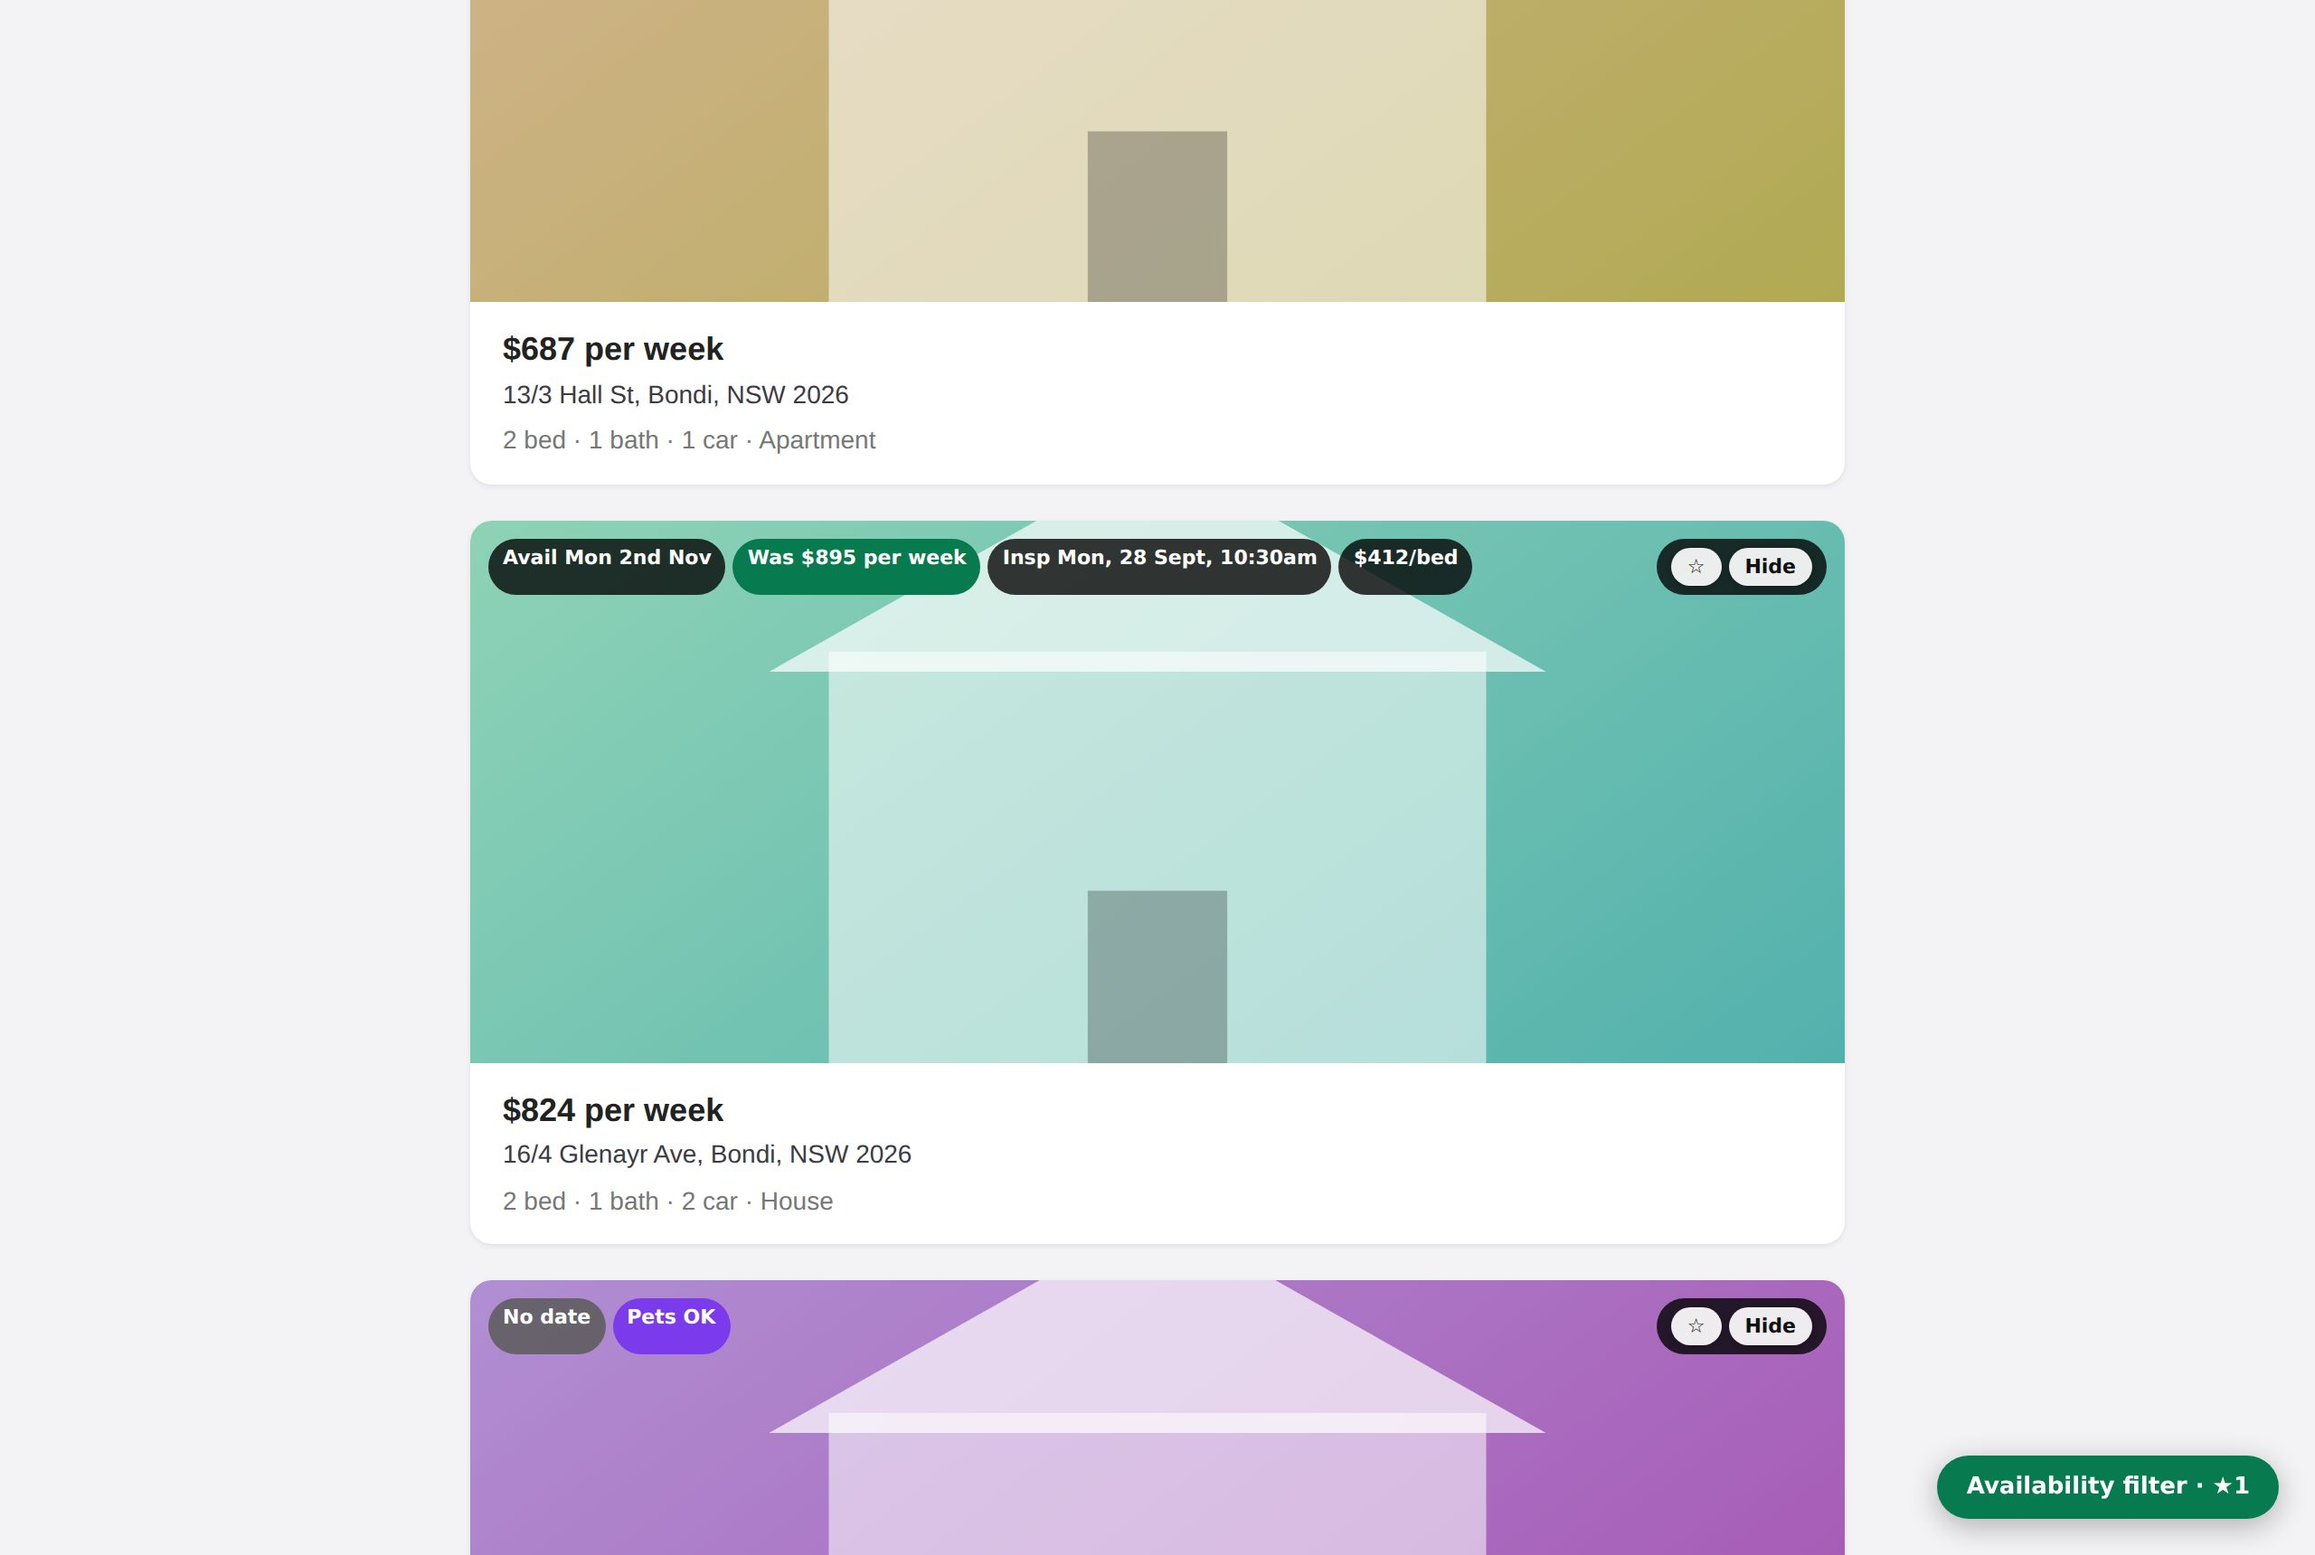
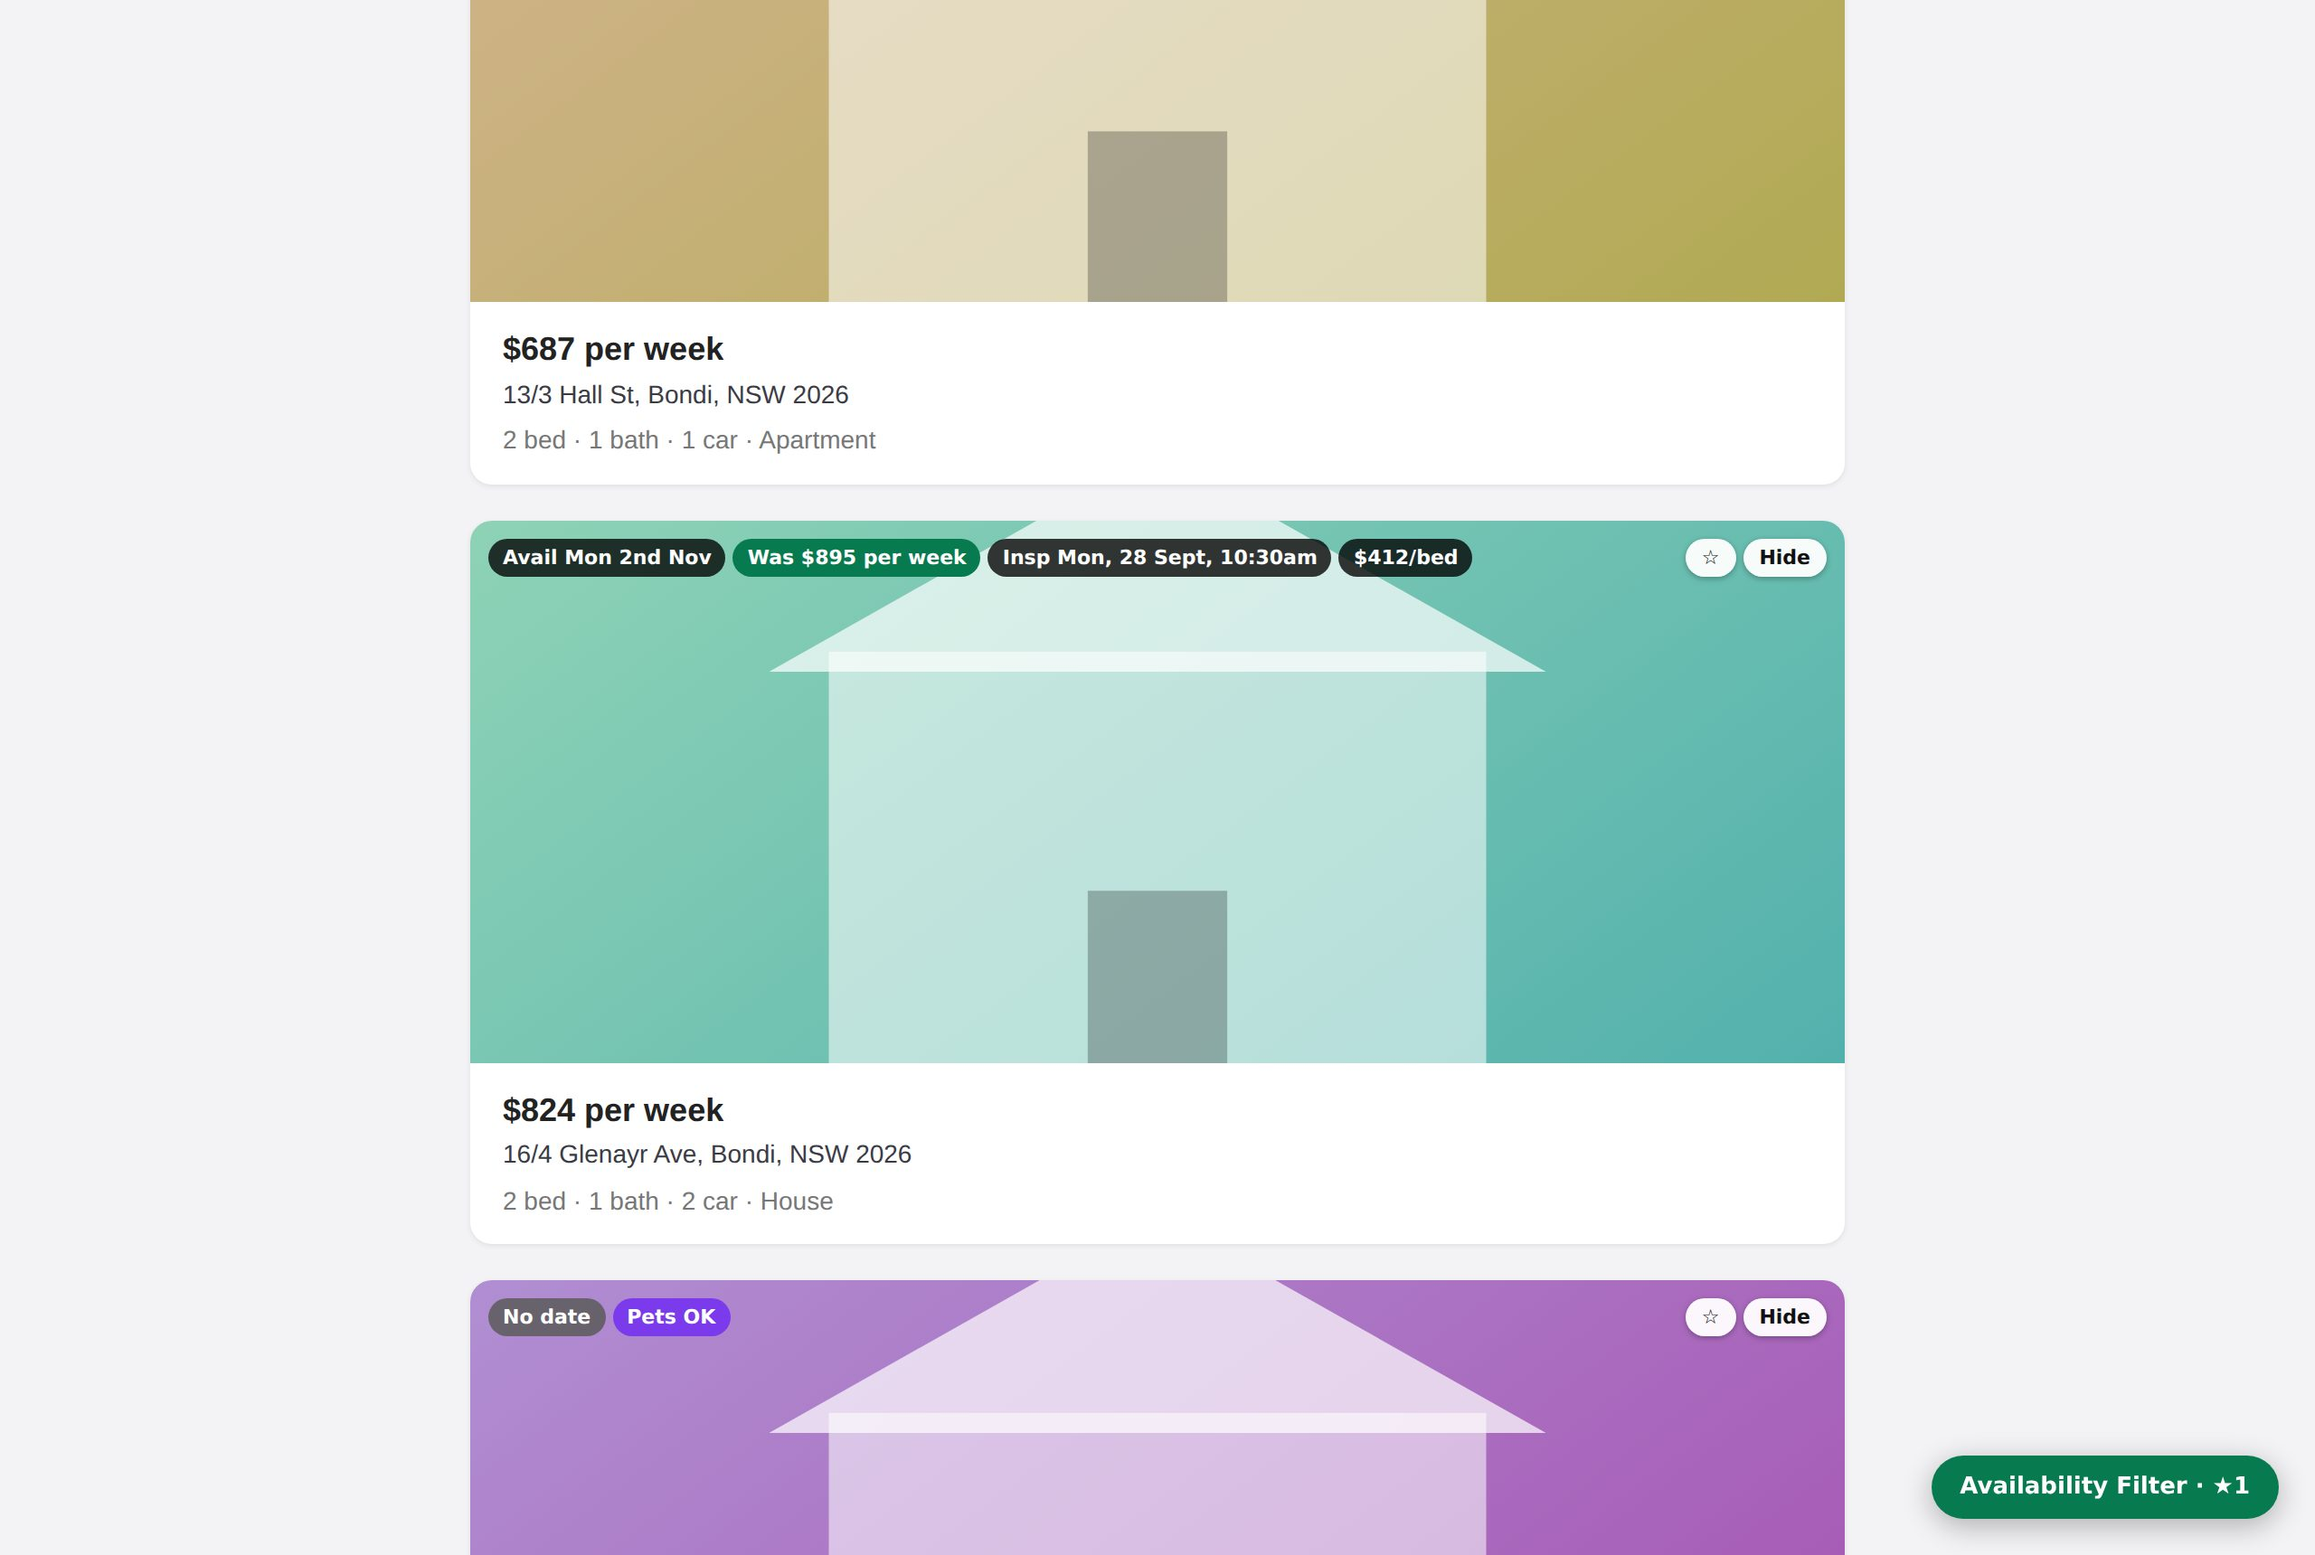
Bump 2.21.1; changelog, readme, screenshots

diff --git a/rea-availability-filter.user.js b/rea-availability-filter.user.js
@@ -1,7 +1,7 @@
 // ==UserScript==
 // @name         REA Availability Filter
 // @namespace    https://github.com/cpwillis/rea-enhancement
-// @version      2.21.0
+// @version      2.21.1
 // @description  Availability-date filtering and sorting, extra filters, cross-page merging, on-card availability badges and CSV/TSV export for realestate.com.au rental searches.
 // @author       cpwillis
 // @homepageURL  https://github.com/cpwillis/rea-enhancement

diff --git a/CHANGELOG.md b/CHANGELOG.md
@@ -2,6 +2,12 @@
 
 Versions match the userscript's `@version`; installs auto-update from `main` when it increases.
 
+## 2.21.1
+
+- **More room for results in the side drawer**: the whole drawer now scrolls as one page (filters, then results) with the header kept at the top, instead of the results sitting in a small scroll box of their own. Expanded mode keeps its two columns.
+- **Tags on REA's cards** look right again: REA's own styles could enlarge them, and the Shortlist / Hide buttons sat inside a dark pill; both fixed.
+- The drawer is now titled **Availability Filter**.
+
 ## 2.21.0
 
 - **Pick several property types**: Type under More filters is now a row of chips built from the types in your results; pick any number ("Apartment" and "Unit") and a listing of any of them matches. Each picked type gets its own removable filter chip. Saved settings and presets with a single type keep working.

diff --git a/README.md b/README.md
@@ -12,7 +12,7 @@ Everything stays local: no account, no telemetry, no third-party requests. The o
 
 1. Install [Tampermonkey](https://www.tampermonkey.net/) in Chrome (Firefox/Edge also work).
 2. Click **[install the script](https://raw.githubusercontent.com/cpwillis/rea-enhancement/main/rea-availability-filter.user.js)**. Tampermonkey opens its install page; confirm.
-3. Open any `realestate.com.au/rent/...` search and click **Availability filter** at the bottom right.
+3. Open any `realestate.com.au/rent/...` search and click **Availability Filter** at the bottom right.
 
 Updates are automatic: Tampermonkey checks `@updateURL` (the file on `main`) and installs any newer `@version`. To update now, Tampermonkey dashboard -> **Utilities** -> **Check for userscript updates**.
 
